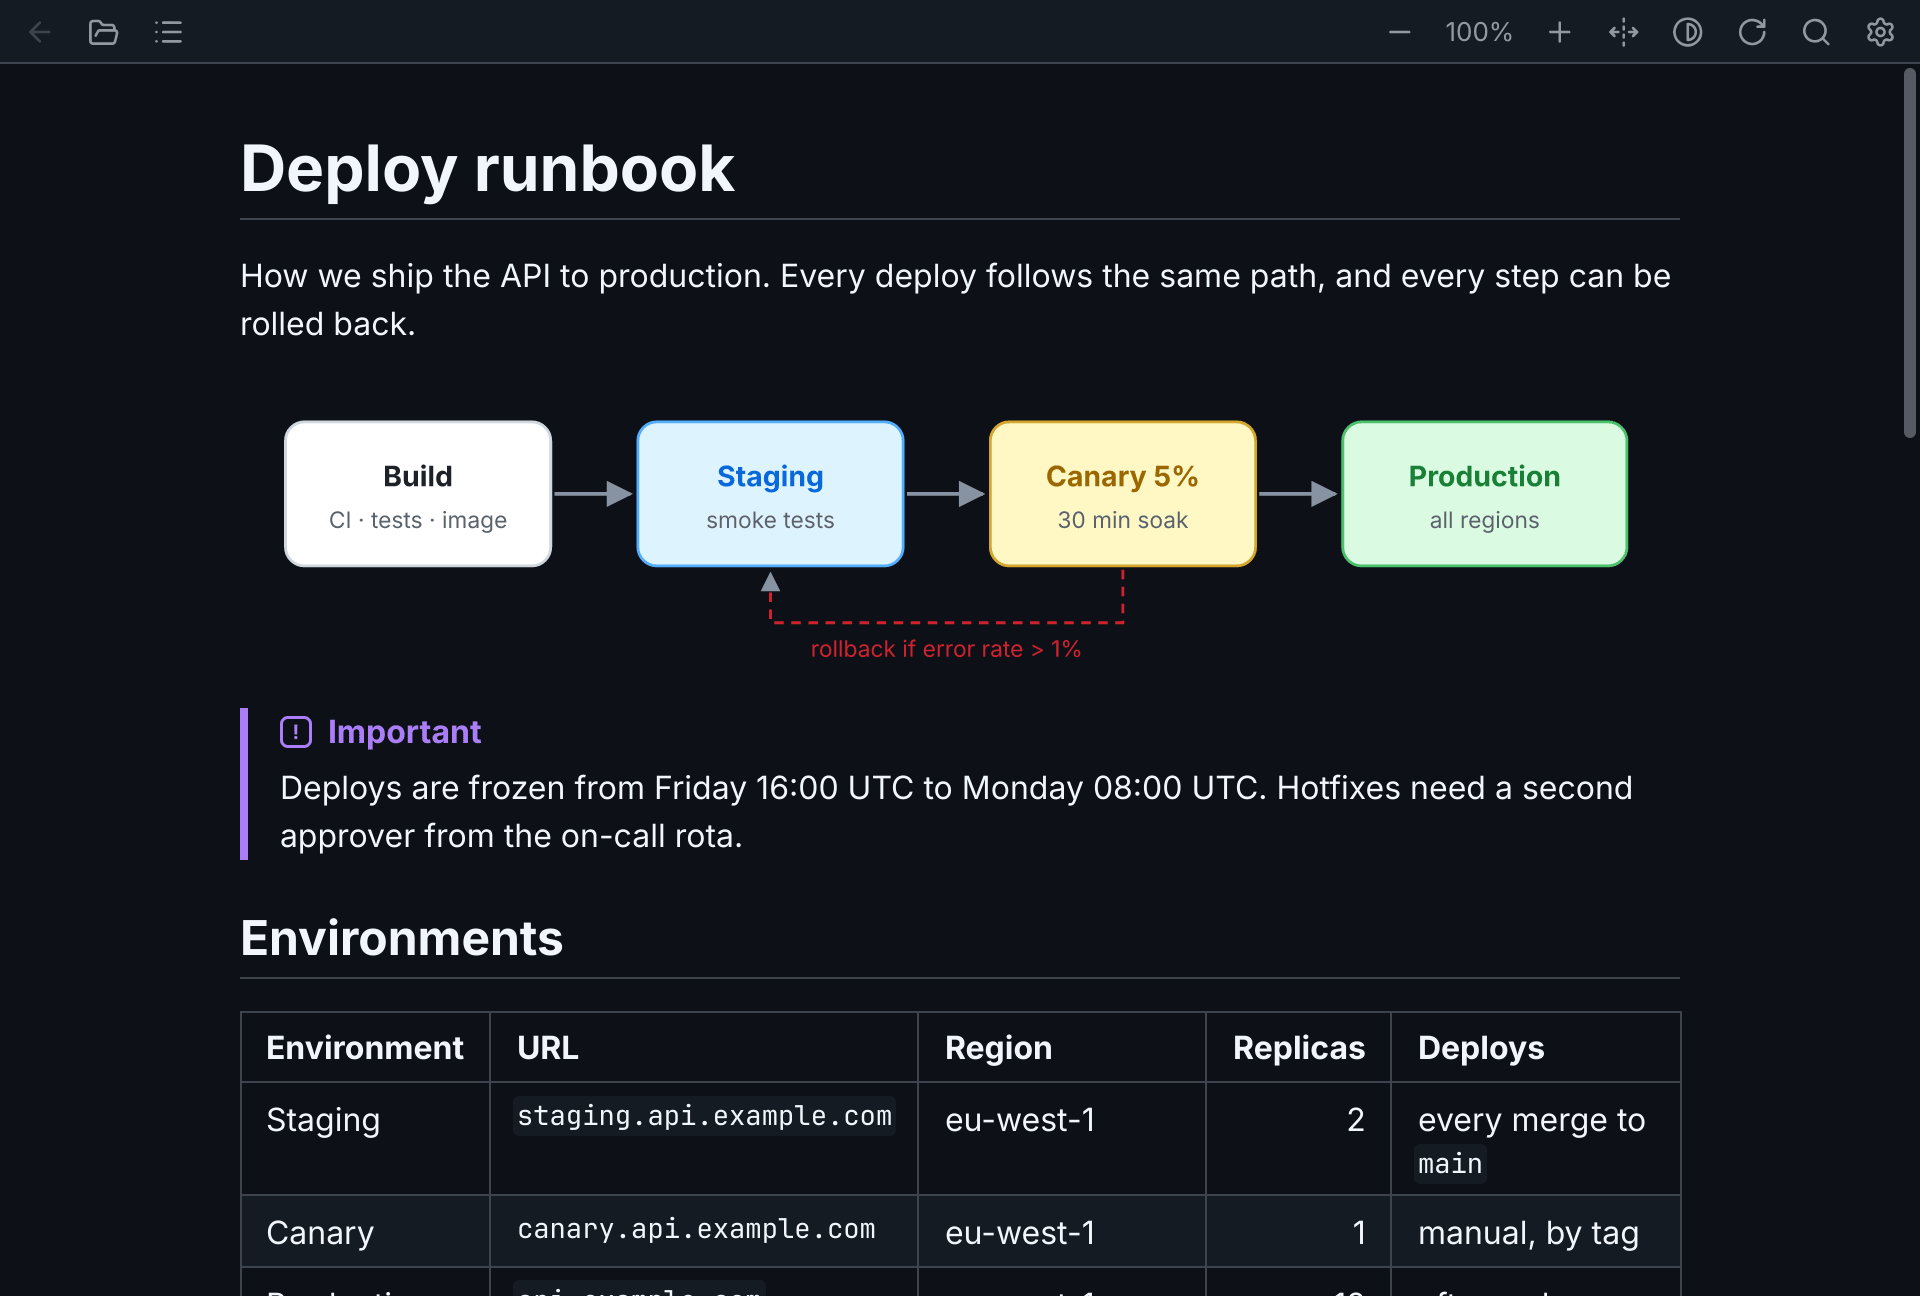
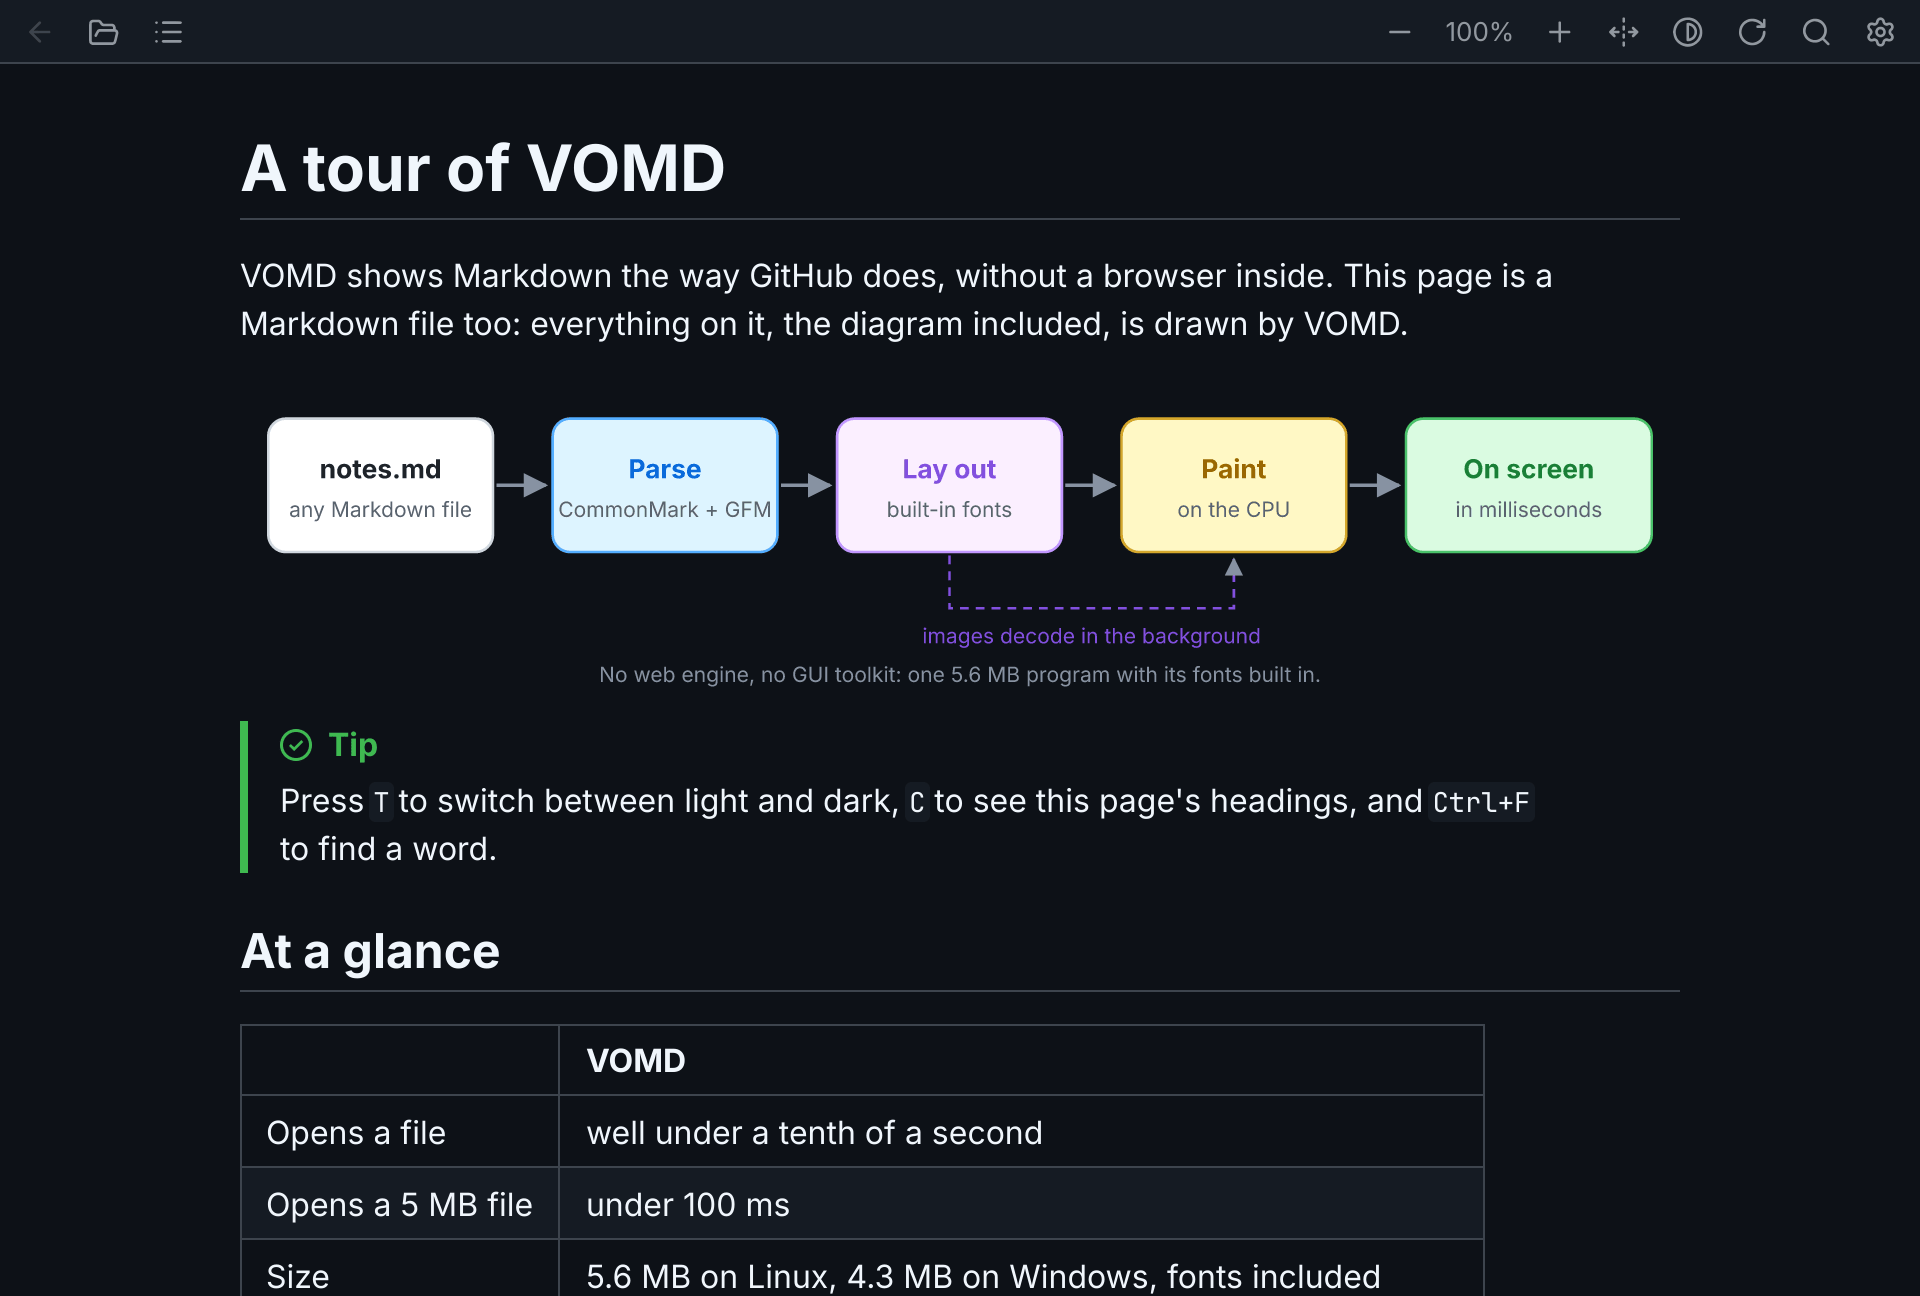
docs(readme): re-record the demo and screenshots on a tour of VOMD
The featured document is now a tour of VOMD itself (a diagram of how
it draws a page, its keys and settings) instead of an unrelated sample,
and the demo is recorded with the 1.6.1 build, so the README window's
badges keep their spaces. The reading part is shorter: 3.5 MB.

diff --git a/README.md b/README.md
@@ -30,7 +30,7 @@
 </p>
 
 <p align="center">
-  <img src="assets/demo.webp" width="900" alt="Double-clicking a Markdown file in a file manager opens it in VOMD at once; selecting four more and pressing Enter opens four rendered windows together">
+  <img src="assets/demo.webp" width="900" alt="Double-clicking a Markdown file in a file manager opens it in VOMD at once; selecting four and pressing Enter opens four rendered windows together">
 </p>
 
 ## Why VOMD
@@ -58,7 +58,7 @@
 
 <picture>
   <source media="(prefers-color-scheme: dark)" srcset="assets/screenshot-dark.png">
-  <img src="assets/screenshot-light.png" width="900" alt="VOMD showing a runbook with a diagram, an alert and a table">
+  <img src="assets/screenshot-light.png" width="900" alt="VOMD showing a tour of itself: a diagram of how VOMD draws a page, a tip and a table">
 </picture>
 
 ## Install
